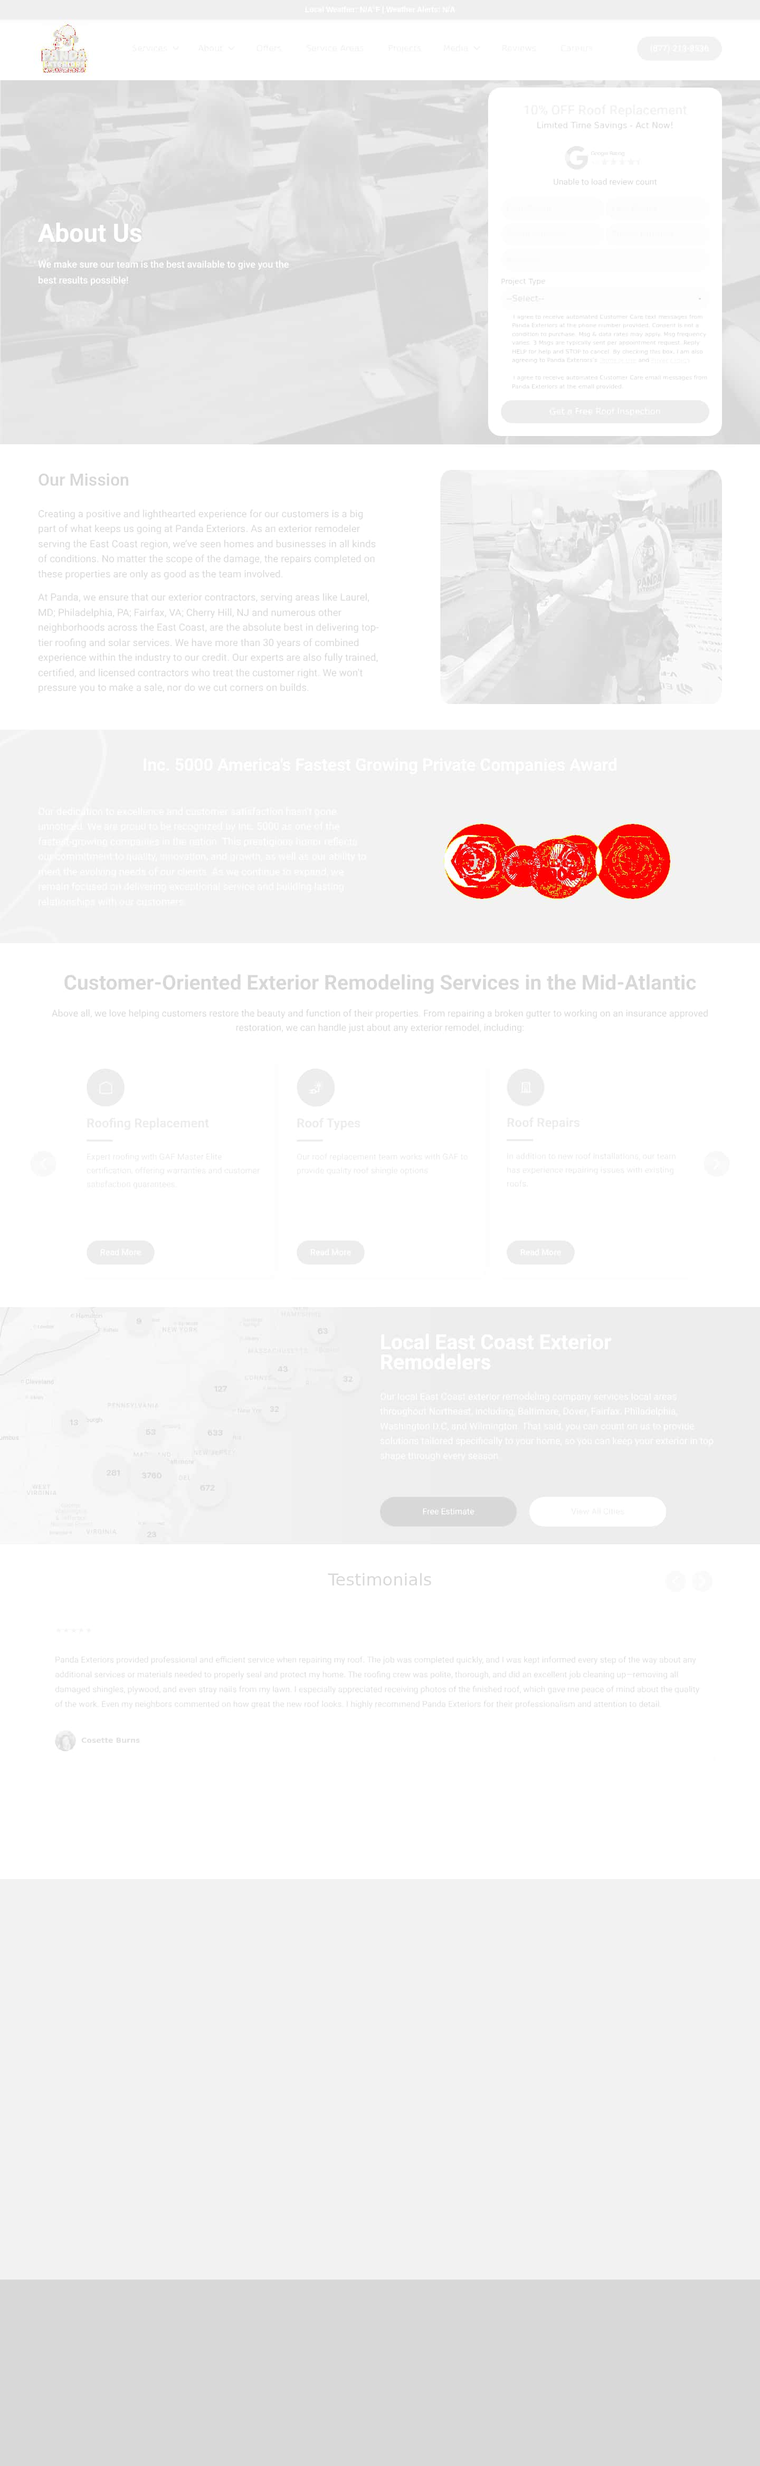
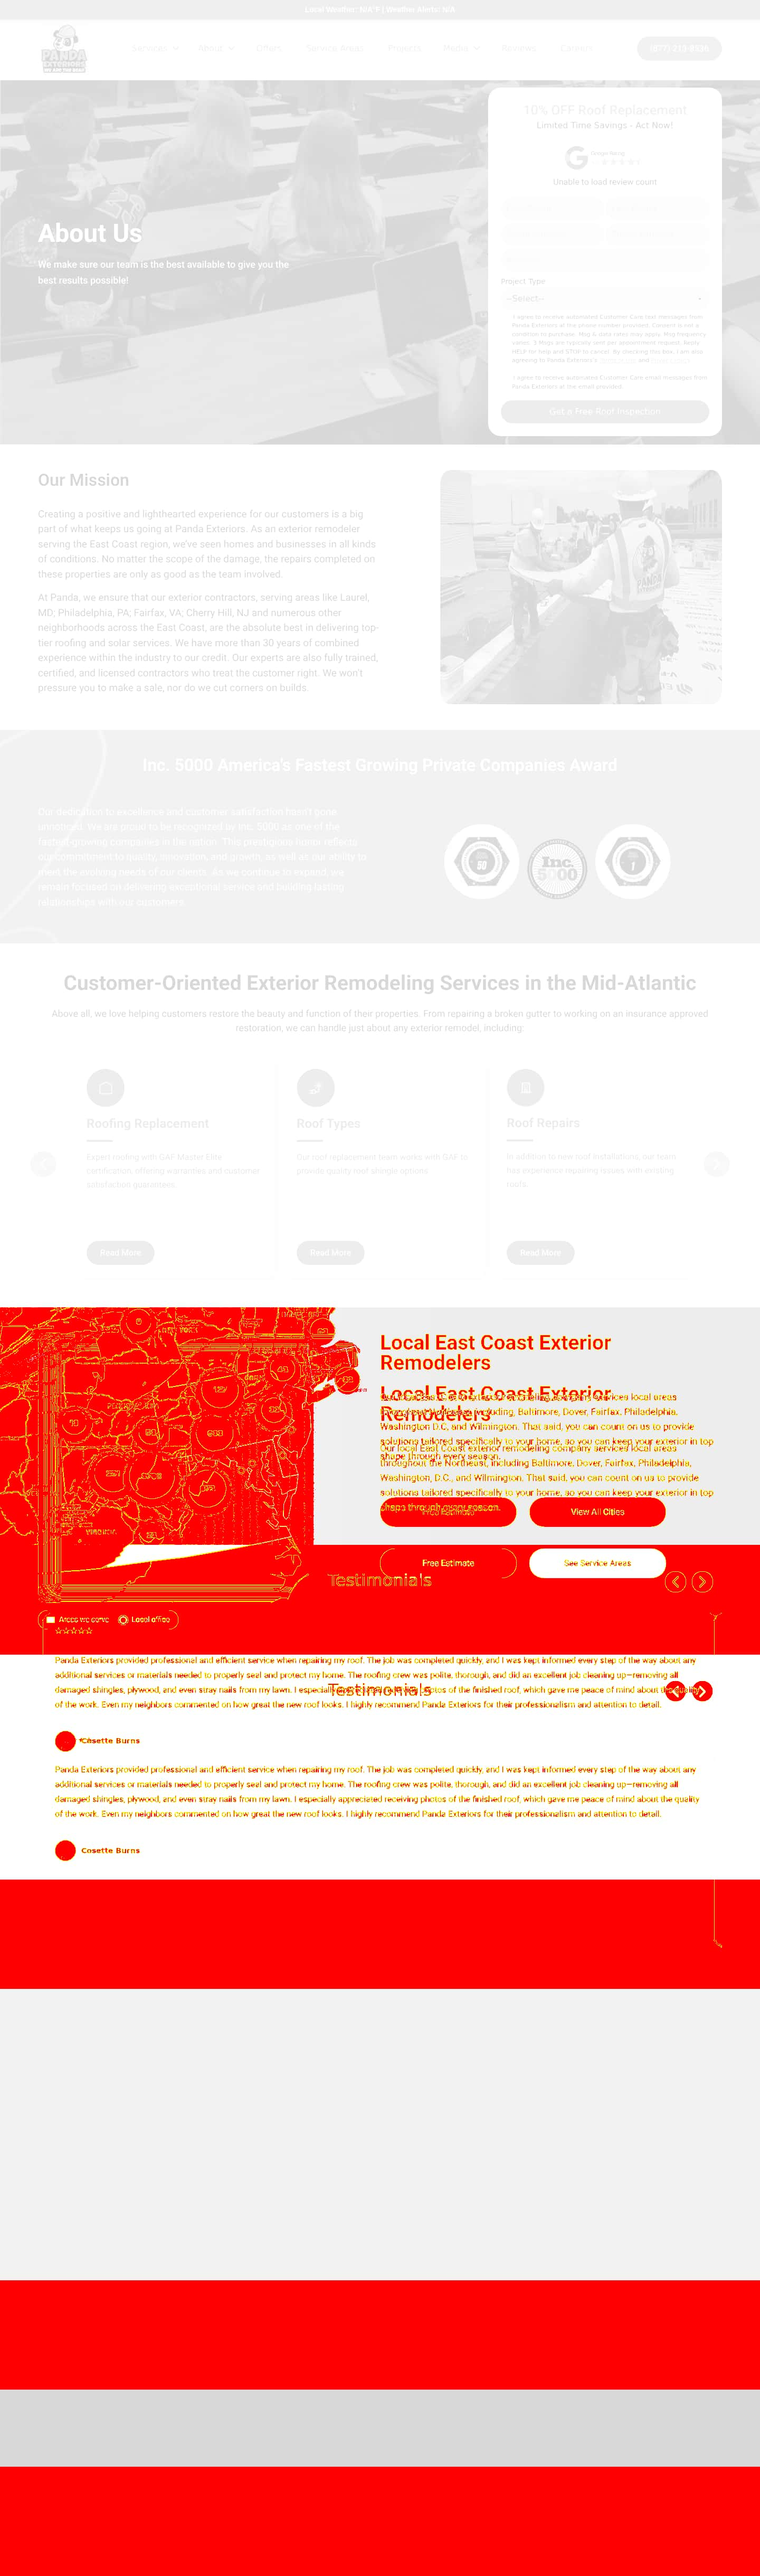
Verification after replacing the map sections
- Visual diff: every screenshot not changed on purpose passes (320/320).
  The 12 map pages are listed as edited on purpose, next to the 2 pages with
  city links removed. No new JavaScript errors on the changed pages, and no
  requests from the copy to the live site.
- Link check: 17 unresolved references, 0 fixable (unchanged); inventory
  coverage 220/220.
- Capture summary: new row for the pages with the animated US map.

Claude-Session: https://claude.ai/code/session_01Ku6h736Fzs6wnAJur93fvU

diff --git a/docs/visual-diff/summary.md b/docs/visual-diff/summary.md
@@ -6,7 +6,7 @@ the network to go quiet, back to top, carousels stopped on their first slide, an
 compared with pixelmatch (threshold 0.1, anti-aliasing ignored). Where page heights differ, the extra area counts as
 different. Pages differing by more than 1% are flagged.
 
-**Result: 340 of 342 screenshots pass (99.4%).** Flagged: 2. Not counted: 6 screenshot(s) of pages edited on purpose (listed below).
+**Result: 320 of 320 screenshots pass (100.0%).** Flagged: 0. Not counted: 28 screenshot(s) of pages edited on purpose (listed below).
 
 Diff images (`<page>--<viewport>.jpg`, changed pixels in red) are saved next to this file for every screenshot
 that is not pixel-identical. Live screenshots are in `docs/screenshots/live/`.
@@ -15,34 +15,50 @@ that is not pixel-identical. Live screenshots are in `docs/screenshots/live/`.
 in Chromium; `as-delivered` = the server's original HTML (used where the rendered snapshot did not match live,
 typically because carousels or other scripts initialise a second time on already-rendered markup).
 
-## Flagged pages
-
-| Page | Viewport | Diff % | Height Δ (px) | Live-site requests | New JS errors | Note |
-| --- | --- | --- | --- | --- | --- | --- |
-| /gutters/ | mobile | 3.73 | 0 | 0 |  |  |
-| /siding/ | mobile | 3.47 | 0 | 0 |  |  |
 
 ## Pages edited on purpose
 
-These pages differ from live by design: their links to the city sub-sites were removed from the copy.
+These pages differ from live by design: links to the city sub-sites were removed from the copy, and the old map sections were replaced with the animated US map (`custom/us-map/`).
 
 | Page | Viewport | Diff % | Change |
 | --- | --- | --- | --- |
+| / | desktop | 43.30 | edited on purpose: old map section replaced with the animated US map |
+| / | mobile | 53.97 | edited on purpose: old map section replaced with the animated US map |
+| /about/ | desktop | 21.07 | edited on purpose: old map section replaced with the animated US map |
+| /about/ | mobile | 24.28 | edited on purpose: old map section replaced with the animated US map |
 | /blog/how-long-does-a-roof-really-last/ | desktop | 0.01 | edited on purpose: 2 link(s) to city sub-sites removed |
 | /blog/how-long-does-a-roof-really-last/ | mobile | 0.01 | edited on purpose: 2 link(s) to city sub-sites removed |
-| /service-areas/ | desktop | 19.76 | edited on purpose: 17 link(s) to city sub-sites removed |
-| /service-areas/ | mobile | 12.84 | edited on purpose: 17 link(s) to city sub-sites removed |
+| /commerical-roofing/ | desktop | 14.38 | edited on purpose: old map section replaced with the animated US map |
+| /commerical-roofing/ | mobile | 16.63 | edited on purpose: old map section replaced with the animated US map |
+| /faqs/ | desktop | 16.02 | edited on purpose: old map section replaced with the animated US map |
+| /faqs/ | mobile | 21.91 | edited on purpose: old map section replaced with the animated US map |
+| /gutters/ | desktop | 25.33 | edited on purpose: old map section replaced with the animated US map |
+| /gutters/ | mobile | 34.93 | edited on purpose: old map section replaced with the animated US map |
+| /past-projects/ | desktop | 64.79 | edited on purpose: old map section replaced with the animated US map |
+| /past-projects/ | mobile | 82.19 | edited on purpose: old map section replaced with the animated US map |
+| /podcast/ | desktop | 22.63 | edited on purpose: old map section replaced with the animated US map |
+| /podcast/ | mobile | 27.17 | edited on purpose: old map section replaced with the animated US map |
+| /reviews/ | desktop | 20.03 | edited on purpose: old map section replaced with the animated US map |
+| /reviews/ | mobile | 24.66 | edited on purpose: old map section replaced with the animated US map |
+| /roofing/ | desktop | 22.12 | edited on purpose: old map section replaced with the animated US map |
+| /roofing/ | mobile | 23.49 | edited on purpose: old map section replaced with the animated US map |
+| /service-areas/ | desktop | 56.63 | edited on purpose: 17 link(s) to city sub-sites removed; old map section replaced with the animated US map |
+| /service-areas/ | mobile | 45.10 | edited on purpose: 17 link(s) to city sub-sites removed; old map section replaced with the animated US map |
+| /siding/ | desktop | 12.93 | edited on purpose: old map section replaced with the animated US map |
+| /siding/ | mobile | 10.44 | edited on purpose: old map section replaced with the animated US map |
 | /site-map/ | desktop | 37.51 | edited on purpose: 16 link(s) to city sub-sites removed |
 | /site-map/ | mobile | 51.61 | edited on purpose: 16 link(s) to city sub-sites removed |
+| /solar/ | desktop | 27.67 | edited on purpose: old map section replaced with the animated US map |
+| /solar/ | mobile | 36.36 | edited on purpose: old map section replaced with the animated US map |
 
 ## All pages
 
 | Page | Viewport | Page HTML | Live size | Local size | Diff % | Result |
 | --- | --- | --- | --- | --- | --- | --- |
-| / | desktop | as-delivered | 1440×7954 | 1440×7954 | 0.000 | PASS |
-| / | mobile | as-delivered | 390×14621 | 390×14621 | 0.000 | PASS |
-| /about/ | desktop | rendered | 1440×4672 | 1440×4672 | 0.556 | PASS |
-| /about/ | mobile | rendered | 390×7396 | 390×7396 | 0.000 | PASS |
+| / | desktop | as-delivered | 1440×7954 | 1440×8875 | 43.299 | EDITED |
+| / | mobile | as-delivered | 390×14621 | 390×13848 | 53.971 | EDITED |
+| /about/ | desktop | rendered | 1440×4672 | 1440×4879 | 21.072 | EDITED |
+| /about/ | mobile | rendered | 390×7396 | 390×7862 | 24.283 | EDITED |
 | /affirm-payment/ | desktop | rendered | 1440×900 | 1440×900 | 0.000 | PASS |
 | /affirm-payment/ | mobile | rendered | 390×844 | 390×844 | 0.000 | PASS |
 | /blog/ | desktop | rendered | 1440×3303 | 1440×3303 | 0.000 | PASS |
@@ -317,8 +333,8 @@ These pages differ from live by design: their links to the city sub-sites were r
 | /charity-and-community/ | mobile | rendered | 390×6930 | 390×6930 | 0.000 | PASS |
 | /commercial-capabilities/ | desktop | rendered | 1934×4788 | 1934×4788 | 0.000 | PASS |
 | /commercial-capabilities/ | mobile | rendered | 1934×4843 | 1934×4843 | 0.002 | PASS |
-| /commerical-roofing/ | desktop | rendered | 1440×6847 | 1440×6847 | 0.000 | PASS |
-| /commerical-roofing/ | mobile | rendered | 390×11065 | 390×11065 | 0.000 | PASS |
+| /commerical-roofing/ | desktop | rendered | 1440×6847 | 1440×7055 | 14.378 | EDITED |
+| /commerical-roofing/ | mobile | rendered | 390×11065 | 390×11531 | 16.634 | EDITED |
 | /commerical-roofing/roof-replacement/ | desktop | rendered | 1440×3756 | 1440×3756 | 0.000 | PASS |
 | /commerical-roofing/roof-replacement/ | mobile | rendered | 390×6685 | 390×6685 | 0.000 | PASS |
 | /commerical-roofing/roof-types/ | desktop | rendered | 1440×3788 | 1440×3788 | 0.000 | PASS |
@@ -327,12 +343,12 @@ These pages differ from live by design: their links to the city sub-sites were r
 | /contact-us/ | mobile | rendered | 390×4723 | 390×4723 | 0.000 | PASS |
 | /customer-service/ | desktop | rendered | 1440×1395 | 1440×1395 | 0.000 | PASS |
 | /customer-service/ | mobile | rendered | 390×2875 | 390×2875 | 0.000 | PASS |
-| /faqs/ | desktop | rendered | 1440×4831 | 1440×4831 | 0.000 | PASS |
-| /faqs/ | mobile | rendered | 390×6163 | 390×6163 | 0.000 | PASS |
+| /faqs/ | desktop | rendered | 1440×4831 | 1440×5039 | 16.022 | EDITED |
+| /faqs/ | mobile | rendered | 390×6163 | 390×6628 | 21.908 | EDITED |
 | /gallery/ | desktop | rendered | 1440×3267 | 1440×3267 | 0.003 | PASS |
 | /gallery/ | mobile | rendered | 390×1943 | 390×1943 | 0.000 | PASS |
-| /gutters/ | desktop | rendered | 1440×5231 | 1440×5231 | 0.000 | PASS |
-| /gutters/ | mobile | rendered | 390×8639 | 390×8639 | 3.727 | **FLAG** |
+| /gutters/ | desktop | rendered | 1440×5231 | 1440×5439 | 25.327 | EDITED |
+| /gutters/ | mobile | rendered | 390×8639 | 390×9105 | 34.929 | EDITED |
 | /gutters/gutter-guards/ | desktop | rendered | 1440×3733 | 1440×3733 | 0.000 | PASS |
 | /gutters/gutter-guards/ | mobile | rendered | 390×6743 | 390×6743 | 0.000 | PASS |
 | /interiors/ | desktop | rendered | 1440×5615 | 1440×5615 | 0.000 | PASS |
@@ -341,10 +357,10 @@ These pages differ from live by design: their links to the city sub-sites were r
 | /offers/ | mobile | rendered | 390×6145 | 390×6145 | 0.000 | PASS |
 | /pandav1-capture-404-check/ | desktop | rendered | 1440×900 | 1440×900 | 0.000 | PASS |
 | /pandav1-capture-404-check/ | mobile | rendered | 390×844 | 390×844 | 0.000 | PASS |
-| /past-projects/ | desktop | rendered | 1440×2768 | 1440×2768 | 0.000 | PASS |
-| /past-projects/ | mobile | rendered | 390×4259 | 390×4259 | 0.000 | PASS |
-| /podcast/ | desktop | rendered | 1440×4336 | 1440×4336 | 0.000 | PASS |
-| /podcast/ | mobile | rendered | 390×6562 | 390×6562 | 0.000 | PASS |
+| /past-projects/ | desktop | rendered | 1440×2768 | 1440×4213 | 64.790 | EDITED |
+| /past-projects/ | mobile | rendered | 390×4259 | 390×10113 | 82.190 | EDITED |
+| /podcast/ | desktop | rendered | 1440×4336 | 1440×4544 | 22.626 | EDITED |
+| /podcast/ | mobile | rendered | 390×6562 | 390×7028 | 27.166 | EDITED |
 | /position-details/ | desktop | rendered | 1440×919 | 1440×919 | 0.000 | PASS |
 | /position-details/ | mobile | rendered | 390×844 | 390×844 | 0.000 | PASS |
 | /privacy-policy/ | desktop | rendered | 1440×2690 | 1440×2690 | 0.000 | PASS |
@@ -353,12 +369,12 @@ These pages differ from live by design: their links to the city sub-sites were r
 | /referral/ | mobile | rendered | 390×2860 | 390×2860 | 0.000 | PASS |
 | /referrals/ | desktop | rendered | 1440×900 | 1440×900 | 0.891 | PASS |
 | /referrals/ | mobile | rendered | 390×1149 | 390×1149 | 0.000 | PASS |
-| /reviews/ | desktop | rendered | 1440×3965 | 1440×3965 | 0.000 | PASS |
-| /reviews/ | mobile | rendered | 390×6009 | 390×6009 | 0.000 | PASS |
+| /reviews/ | desktop | rendered | 1440×3965 | 1440×4172 | 20.028 | EDITED |
+| /reviews/ | mobile | rendered | 390×6009 | 390×6475 | 24.656 | EDITED |
 | /roofing-costs/ | desktop | rendered | 1440×3817 | 1440×3817 | 0.000 | PASS |
 | /roofing-costs/ | mobile | rendered | 390×6505 | 390×6505 | 0.000 | PASS |
-| /roofing/ | desktop | rendered | 1440×7189 | 1440×7189 | 0.000 | PASS |
-| /roofing/ | mobile | rendered | 390×11215 | 390×11215 | 0.000 | PASS |
+| /roofing/ | desktop | rendered | 1440×7189 | 1440×7396 | 22.123 | EDITED |
+| /roofing/ | mobile | rendered | 390×11215 | 390×11474 | 23.486 | EDITED |
 | /roofing/attic-insulation/ | desktop | rendered | 1440×3701 | 1440×3701 | 0.000 | PASS |
 | /roofing/attic-insulation/ | mobile | rendered | 390×6821 | 390×6821 | 0.000 | PASS |
 | /roofing/repairs/ | desktop | rendered | 1440×3778 | 1440×3778 | 0.000 | PASS |
@@ -369,16 +385,16 @@ These pages differ from live by design: their links to the city sub-sites were r
 | /roofing/residential/ | mobile | rendered | 390×8966 | 390×8966 | 0.000 | PASS |
 | /roofing/types/ | desktop | rendered | 1440×4986 | 1440×4986 | 0.000 | PASS |
 | /roofing/types/ | mobile | rendered | 390×7691 | 390×7691 | 0.000 | PASS |
-| /service-areas/ | desktop | rendered | 1440×4579 | 1440×4466 | 19.758 | EDITED |
-| /service-areas/ | mobile | rendered | 390×7608 | 390×7495 | 12.842 | EDITED |
+| /service-areas/ | desktop | rendered | 1440×4579 | 1440×5304 | 56.634 | EDITED |
+| /service-areas/ | mobile | rendered | 390×7608 | 390×8325 | 45.096 | EDITED |
 | /services/ | desktop | rendered | 1440×3798 | 1440×3798 | 0.000 | PASS |
 | /services/ | mobile | rendered | 390×7418 | 390×7418 | 0.000 | PASS |
-| /siding/ | desktop | rendered | 1440×5245 | 1440×5245 | 0.000 | PASS |
-| /siding/ | mobile | rendered | 390×9229 | 390×9229 | 3.470 | **FLAG** |
+| /siding/ | desktop | rendered | 1440×5245 | 1440×5383 | 12.931 | EDITED |
+| /siding/ | mobile | rendered | 390×9229 | 390×9364 | 10.443 | EDITED |
 | /site-map/ | desktop | rendered | 1440×2943 | 1440×2175 | 37.511 | EDITED |
 | /site-map/ | mobile | rendered | 390×3727 | 390×2735 | 51.612 | EDITED |
-| /solar/ | desktop | as-delivered | 1440×6810 | 1440×6810 | 0.000 | PASS |
-| /solar/ | mobile | as-delivered | 390×11188 | 390×11188 | 0.000 | PASS |
+| /solar/ | desktop | as-delivered | 1440×6810 | 1440×7027 | 27.671 | EDITED |
+| /solar/ | mobile | as-delivered | 390×11188 | 390×11119 | 36.361 | EDITED |
 | /solar/gaf-solar-roof/ | desktop | rendered | 1440×3074 | 1440×3074 | 0.000 | PASS |
 | /solar/gaf-solar-roof/ | mobile | rendered | 390×5527 | 390×5527 | 0.000 | PASS |
 | /solar/solar-panel-installations/ | desktop | rendered | 1440×3110 | 1440×3110 | 0.000 | PASS |

diff --git a/docs/missing-assets.md b/docs/missing-assets.md
@@ -6,10 +6,10 @@ Generated by `scripts/05-check-links.mjs`.
 
 | Check | Result |
 | --- | --- |
-| Internal references checked (HTML href/src/srcset/data-*/styles/OG + CSS url() + manifest icons) | 2239 unique paths in 174 HTML + 364 CSS files |
-| … resolving to a file or redirect in site/ | 2222 |
+| Internal references checked (HTML href/src/srcset/data-*/styles/OG + CSS url() + manifest icons) | 2232 unique paths in 174 HTML + 365 CSS files |
+| … resolving to a file or redirect in site/ | 2215 |
 | … not resolvable | 17 (0 fixable, 17 expected — see reasons) |
-| HTTP link check (linkinator, served copy) | 11141 links checked, 17 unique broken URLs (0 fixable, the rest expected — see reasons) |
+| HTTP link check (linkinator, served copy) | 11198 links checked, 17 unique broken URLs (0 fixable, the rest expected — see reasons) |
 | Inventory URLs with a matching file | 220 of 220 applicable (225 total rows) |
 | Assets that could not be downloaded from the live site | 18 |
 
@@ -39,21 +39,21 @@ Generated by `scripts/05-check-links.mjs`.
 
 | URL | Status | Linked from (pages) | Example page | Reason |
 | --- | --- | --- | --- | --- |
-| /wp-content/plugins/oxygen/subplugins/breakdance-elements/elements/Social_Share_Buttons/assets/social-share-buttons.js?bd_ver=6.0.0-beta.2 | 404 | 105 | /blog/10-questions-to-ask-before-signing-a-roof-replacement-contract/ | missing on the live site too (HTTP 500) |
-| /wp-content/uploads/2025/03/images-150x150.jpg | 404 | 3 | / | missing on the live site too (HTTP 404) |
+| /wp-content/plugins/oxygen/subplugins/breakdance-elements/elements/Social_Share_Buttons/assets/social-share-buttons.js?bd_ver=6.0.0-beta.2 | 404 | 105 | /blog/5-benefits-of-hiring-a-professional-for-roof-replacement/ | missing on the live site too (HTTP 500) |
 | /wp-content/uploads/2025/03/images.jpg | 404 | 3 | / | missing on the live site too (HTTP 404) |
+| /wp-content/uploads/2025/03/images-150x150.jpg | 404 | 3 | / | missing on the live site too (HTTP 404) |
 | /wp-content/uploads/2025/04/Christy-Miller.png | 404 | 3 | / | missing on the live site too (HTTP 404) |
 | /powerwash/ | 404 | 2 | /blog/home-exteriors-replacement-tips/ | missing on the live site too (HTTP 404) |
 | /wp-content/uploads/2025/10/Resized_20250915_144918.JPEG | 404 | 1 | /interiors/ | missing on the live site too (HTTP 404) |
 | /wp-admin/?breakdance_global_block=%%block_id%% | 404 | 2 | /referral/ | back-end/admin URL (intentionally not copied) |
 | /_external/wordpressmu-1425697-5386286.cloudwaysapps.com/wp-content/uploads/2025/04/eb47c5b0-ee56-4442-8abf-f0b5fba0023d-974x1024.jpg | 404 | 3 | /gallery/ | missing on the live site too (HTTP 404) |
-| /_external/wordpressmu-1425697-5386286.cloudwaysapps.com/wp-content/uploads/2025/04/eb47c5b0-ee56-4442-8abf-f0b5fba0023d-768x807.jpg | 404 | 3 | /gallery/ | missing on the live site too (HTTP 404) |
-| /_external/wordpressmu-1425697-5386286.cloudwaysapps.com/wp-content/uploads/2025/04/b6c10687-fe78-4af3-bdf7-e73ea5e1c8ba.jpg | 404 | 3 | /gallery/ | missing on the live site too (HTTP 404) |
-| /_external/wordpressmu-1425697-5386286.cloudwaysapps.com/wp-content/uploads/2025/04/eb47c5b0-ee56-4442-8abf-f0b5fba0023d.jpg | 404 | 3 | /gallery/ | missing on the live site too (HTTP 404) |
 | /_external/wordpressmu-1425697-5386286.cloudwaysapps.com/wp-content/uploads/2025/04/eb47c5b0-ee56-4442-8abf-f0b5fba0023d-285x300.jpg | 404 | 3 | /gallery/ | missing on the live site too (HTTP 404) |
+| /_external/wordpressmu-1425697-5386286.cloudwaysapps.com/wp-content/uploads/2025/04/eb47c5b0-ee56-4442-8abf-f0b5fba0023d-768x807.jpg | 404 | 3 | /gallery/ | missing on the live site too (HTTP 404) |
 | /_external/wordpressmu-1425697-5386286.cloudwaysapps.com/wp-content/uploads/2025/04/b6c10687-fe78-4af3-bdf7-e73ea5e1c8ba-300x225.jpg | 404 | 3 | /gallery/ | missing on the live site too (HTTP 404) |
 | /_external/wordpressmu-1425697-5386286.cloudwaysapps.com/wp-content/uploads/2025/04/b6c10687-fe78-4af3-bdf7-e73ea5e1c8ba-768x576.jpg | 404 | 3 | /gallery/ | missing on the live site too (HTTP 404) |
+| /_external/wordpressmu-1425697-5386286.cloudwaysapps.com/wp-content/uploads/2025/04/eb47c5b0-ee56-4442-8abf-f0b5fba0023d.jpg | 404 | 3 | /gallery/ | missing on the live site too (HTTP 404) |
 | /_external/wordpressmu-1425697-5386286.cloudwaysapps.com/wp-content/uploads/2025/04/b6c10687-fe78-4af3-bdf7-e73ea5e1c8ba-1024x768.jpg | 404 | 3 | /gallery/ | missing on the live site too (HTTP 404) |
+| /_external/wordpressmu-1425697-5386286.cloudwaysapps.com/wp-content/uploads/2025/04/b6c10687-fe78-4af3-bdf7-e73ea5e1c8ba.jpg | 404 | 3 | /gallery/ | missing on the live site too (HTTP 404) |
 | /window-replacement/ | 404 | 1 | /siding/ | missing on the live site too (HTTP 404) |
 | /wp-content/uploads/oxygen/css/icons/eye.svg | 404 | 2 | /wp-content/uploads/oxygen/css/global-settings.css | missing on the live site too (HTTP 500) |
 

diff --git a/docs/capture-summary.md b/docs/capture-summary.md
@@ -13,12 +13,13 @@ Generated by `scripts/07-summary.mjs` at the end of `scripts/capture-all.sh`.
 | Sub-sites excluded | /baltimore-md/, /charlotte-nc/, /cherry-hill-nj/, /dover-de/, /fairfax-va/, /greentree-nj/, /huntersville-nc/, /king-of-prussia-pa/, /laurel-md/, /marlton-nj/, /marvin-nc/, /philadelphia-pa/, /tampa-fl/, /medford-nj/, /wilmington-de/, /west-laurel-md/, /washington-dc/ |
 | Assets downloaded | 2181 files, 314.7 MB |
 | Asset URLs that failed on the live site | 18 |
-| site/ folder | 2450 files, 358.9 MB |
+| site/ folder | 2452 files, 359.3 MB |
 | Pages served from rendered DOM / as-delivered HTML | 171 / 3 |
 | Live screenshots | 348 |
-| Visual diff pass rate (≤ 1% different) | 340/342 (99.4%) |
+| Visual diff pass rate (≤ 1% different) | 320/320 (100.0%) |
 | Links to city sub-sites removed | 35 on 3 page(s): /blog/how-long-does-a-roof-really-last/, /service-areas/, /site-map/ |
 | Form values redirected from a city site to the main site | 123 |
+| Old map sections replaced with the animated US map | 12 page(s): /, /about/, /commerical-roofing/, /faqs/, /gutters/, /past-projects/, /podcast/, /reviews/, /roofing/, /service-areas/, /siding/, /solar/ |
 | Requests from the copy to the live site | 0 |
 | Unresolved internal references (fixable) | 17 (0) |
 | Broken links, HTTP crawl (fixable) | 17 (0) |
